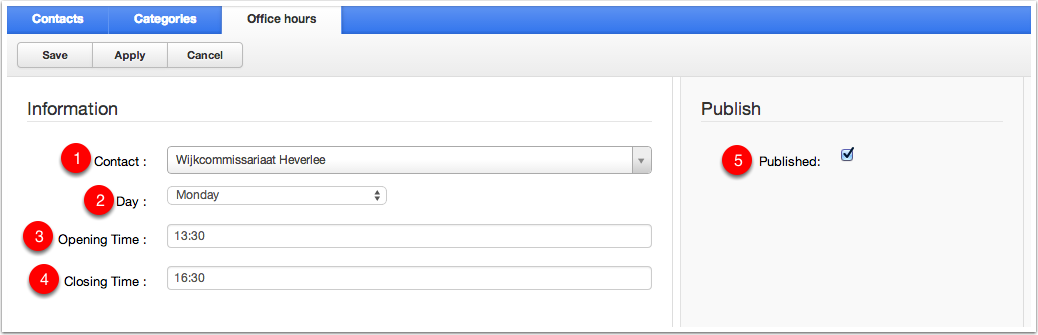
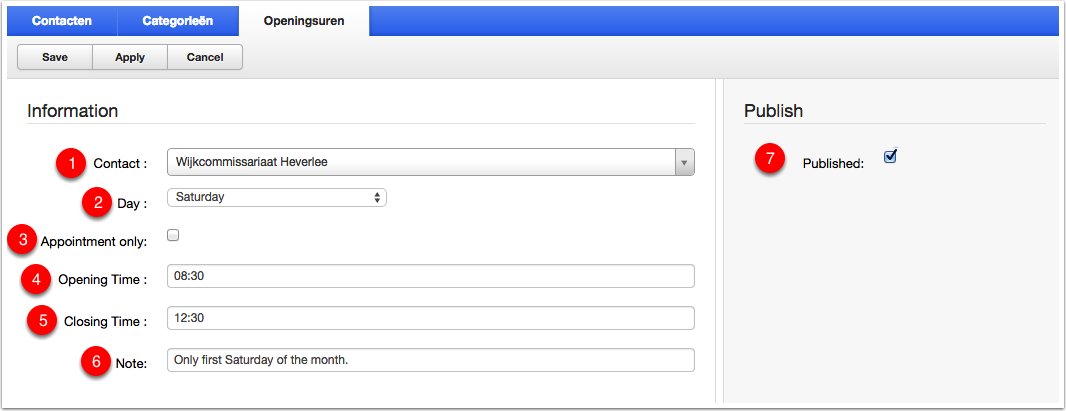
Documentation update

diff --git a/_documentation/06-contacts.md b/_documentation/06-contacts.md
@@ -14,6 +14,16 @@ Contacts are categorized in a single level structure.
 
 ![](/images/documentation/contacts-site-contacts.png)
 
+## Contact on site
+
+Exceptions:
+
+1. Appointment only
+2. Multiple office hours
+3. Note
+
+![](/images/documentation/contacts-site-contact.png)
+
 ## Manage contacts
 
 ![](/images/documentation/contacts-admin-contacts.png)
@@ -55,8 +65,10 @@ You can change:
 
 1. Contact
 2. Day of the week
-3. Opening time
-4. Closing time
-5. Published state
+3. Appointment only (optional)
+4. Opening time
+5. Closing time
+6. Note (optional)
+7. Published state
 
 ![](/images/documentation/contacts-admin-hour.png)

diff --git a/_documentation/10-tools.md b/_documentation/10-tools.md
@@ -1,0 +1,16 @@
+---
+layout: documentation
+title: 10. Tools
+rooturl: documentation
+index: 10
+---
+
+## Streets
+
+1. Filter list (Missing ISLP or No District Officer)
+2. Order by creation date
+3. Order by modified date
+
+<a href="/images/documentation/streets-admin-streets.png" data-gallery="enabled">
+![](/images/documentation/streets-admin-streets.png)
+</a>

diff --git a/_documentation/print.md b/_documentation/print.md
@@ -2,7 +2,7 @@
 layout: documentation_print
 title: Print documentation
 rooturl: documentation
-index: 11
+index: 12
 ---
 
 This page contains all the documentation for easy printing.

diff --git a/_documentation/11-profile.md b/_documentation/11-profile.md
@@ -1,8 +1,8 @@
 ---
 layout: documentation
-title: 10. Profile
+title: 11. Profile
 rooturl: documentation
-index: 10
+index: 11
 ---
 
 ## Manage your profile
